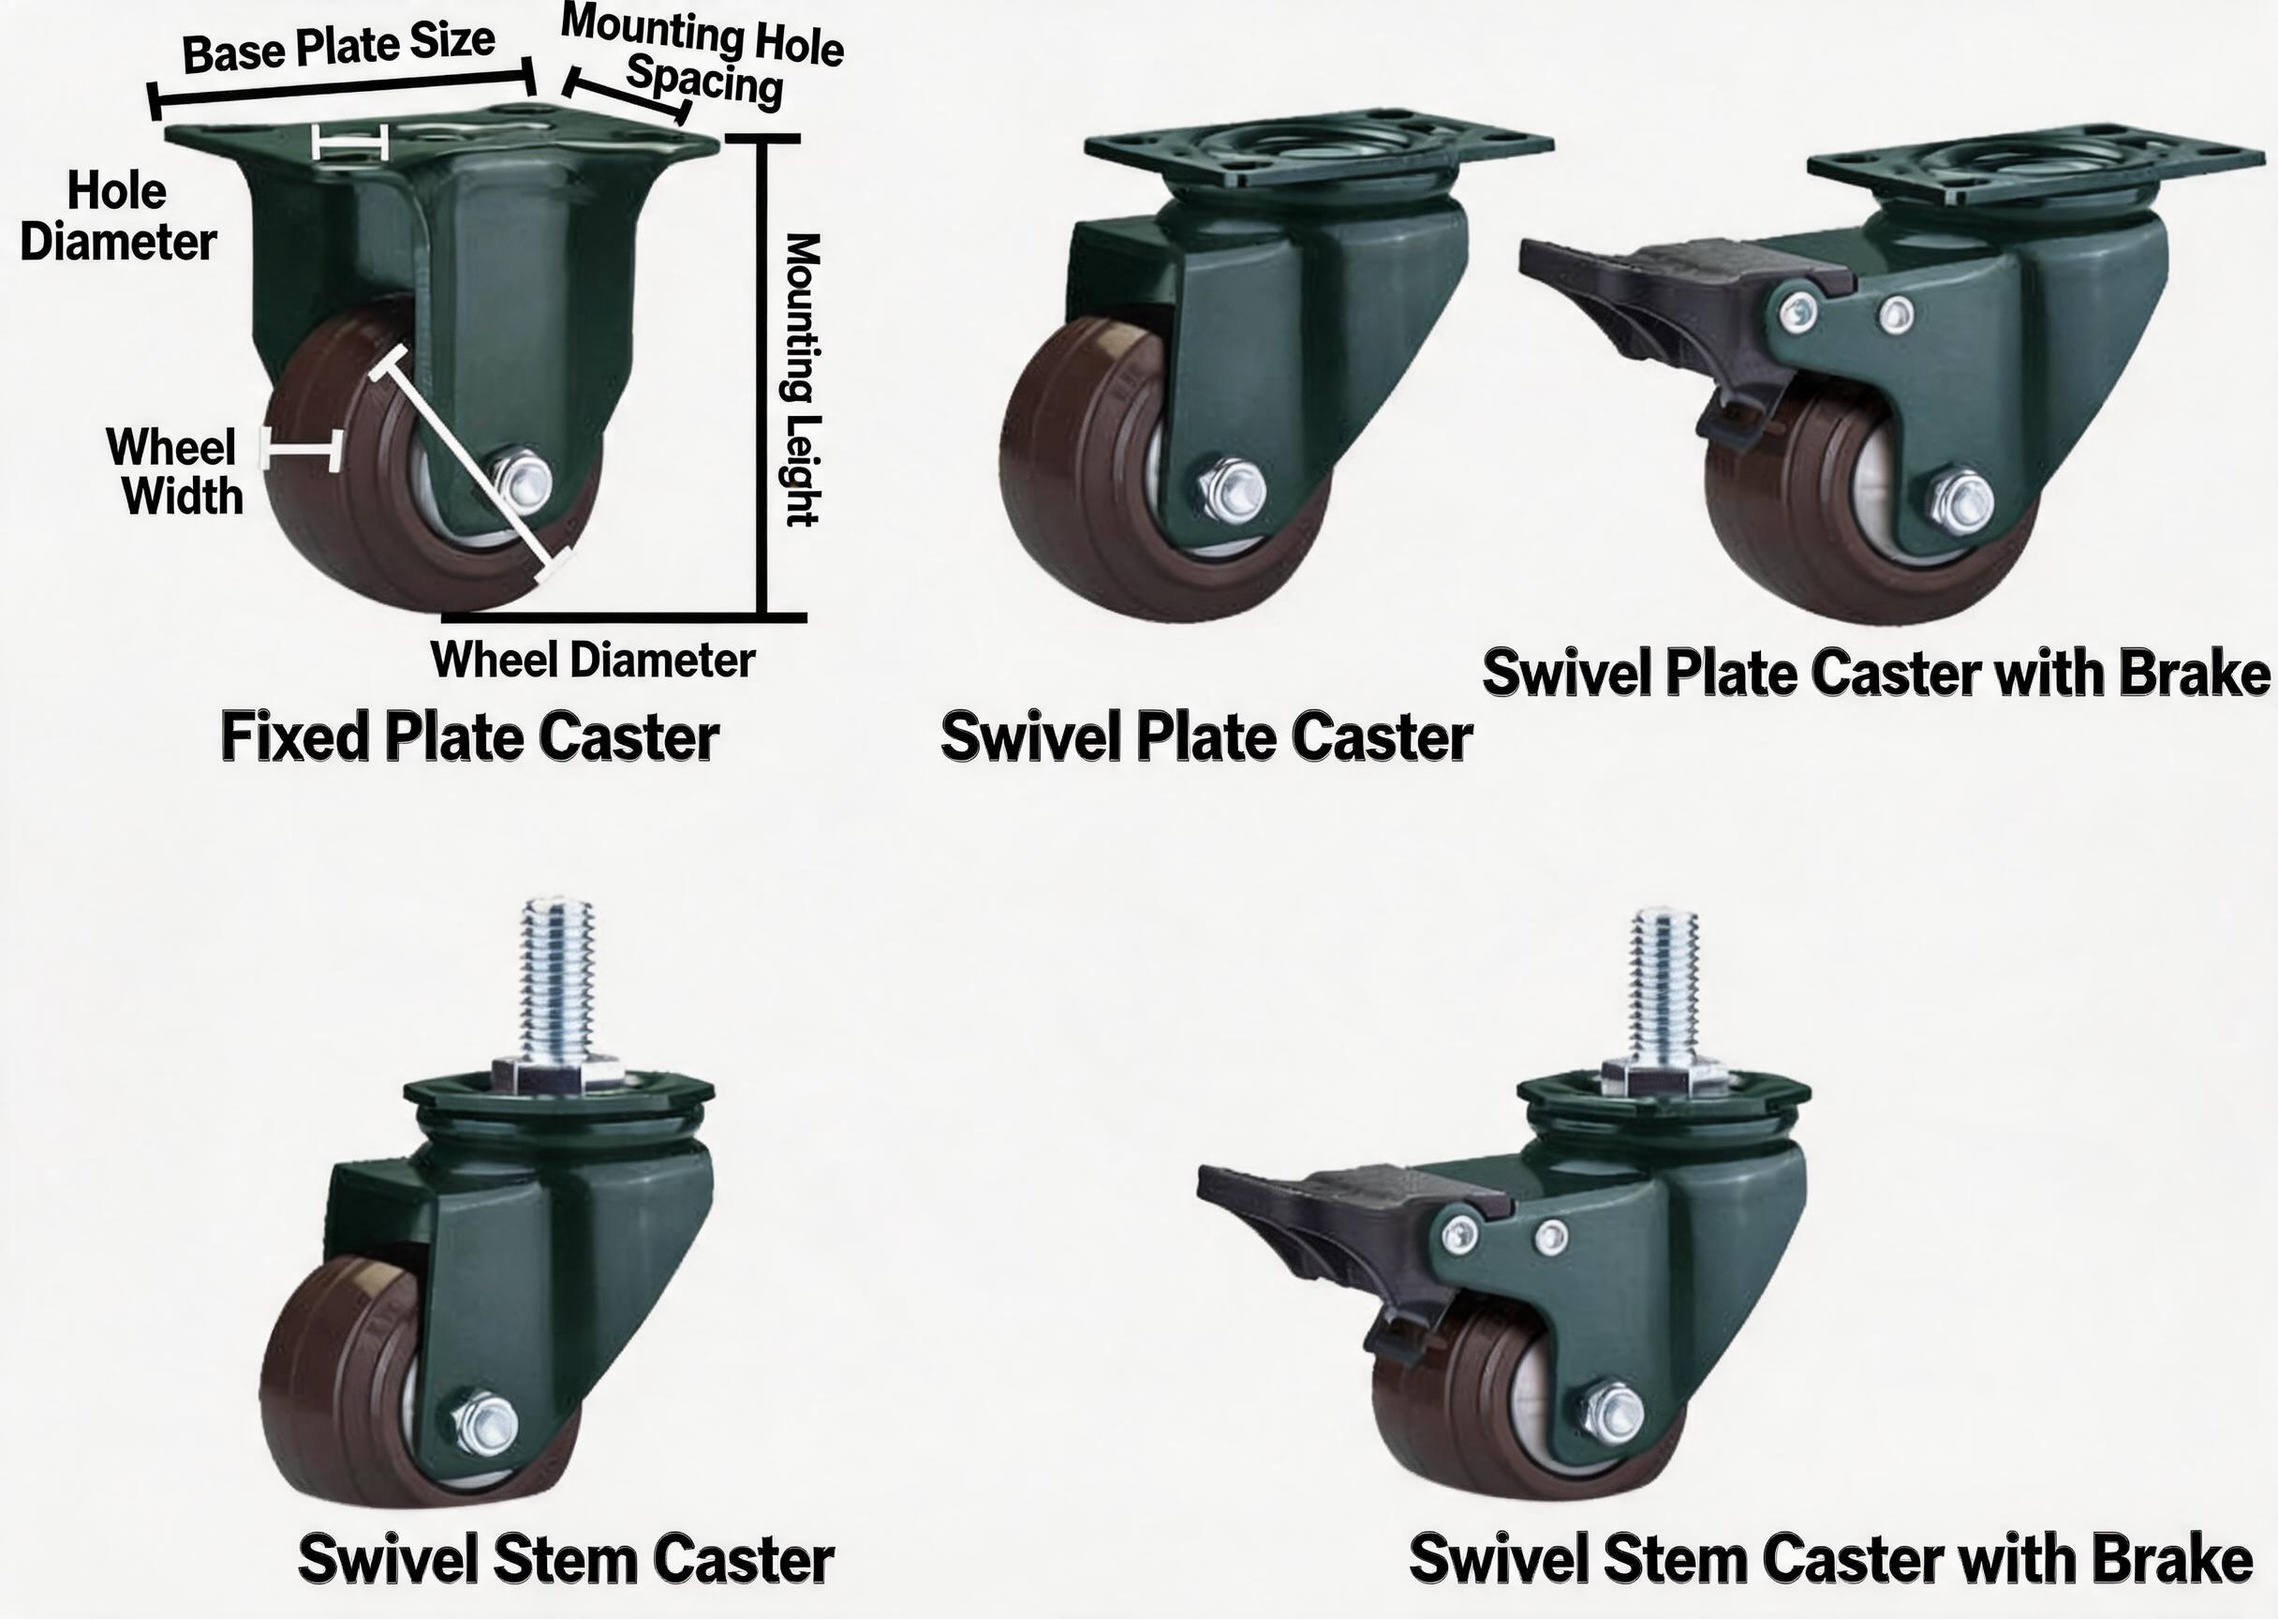
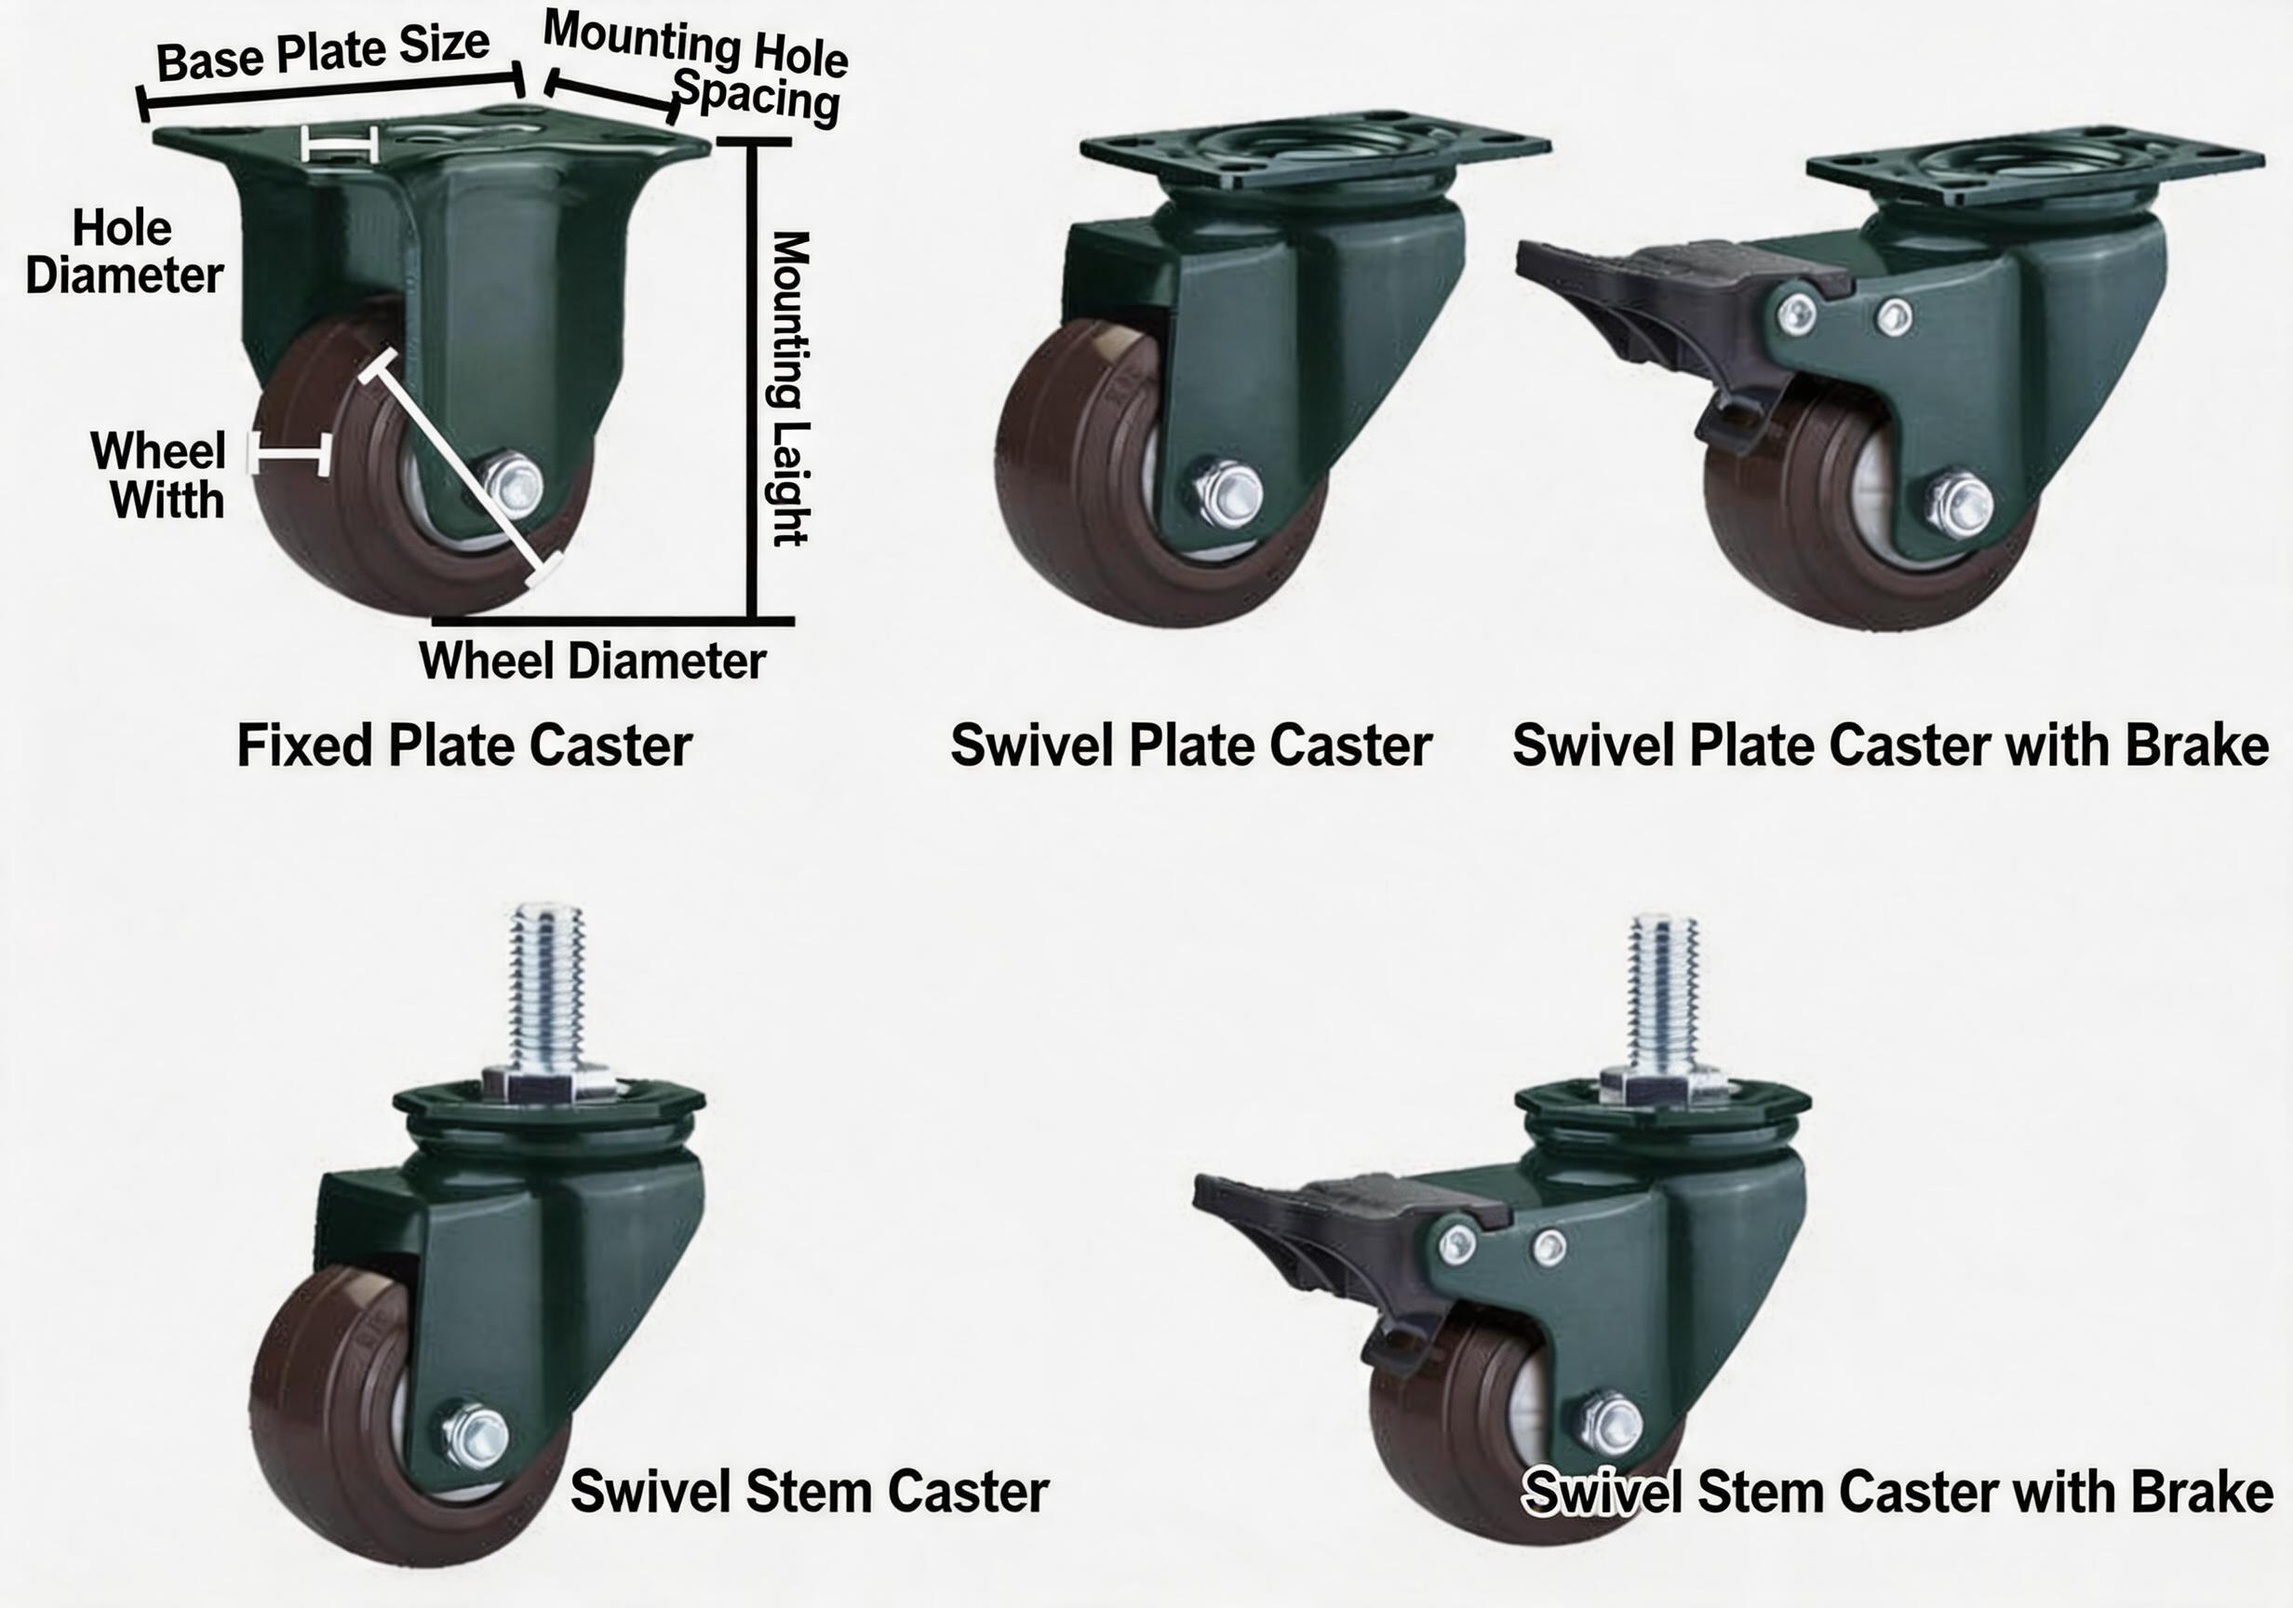
水印

diff --git a/watermark.js b/watermark.js
@@ -1,0 +1,242 @@
+(function (root,factory) {
+  if (typeof define === 'function' && define.amd) {
+    define([], factory());
+  } else if (typeof module === 'object' && module.exports) {
+    module.exports = factory();
+  } else {
+    root['watermark'] = factory();
+  }
+}(this, function () {
+  var watermark = {};
+  var forceRemove = false;
+  var globalSetting = null;
+  
+  var defaultSettings = {
+    watermark_id: 'wm_div_id',
+    watermark_prefix: 'mask_div_id',
+    watermark_txt: "测试水印",
+    watermark_x: 20,
+    watermark_y: 20,
+    watermark_rows: 0,
+    watermark_cols: 0,
+    watermark_x_space: 50,
+    watermark_y_space: 50,
+    watermark_font: '微软雅黑',
+    watermark_color: 'black',
+    watermark_fontsize: '18px',
+    watermark_alpha: 0.15,
+    watermark_width: 100,
+    watermark_height: 100,
+    watermark_angle: 15,
+    watermark_parent_width: 0,
+    watermark_parent_height: 0,
+    watermark_parent_node: null,
+    monitor: true,
+  };
+
+  var MutationObserver = window.MutationObserver || window.WebKitMutationObserver || window.MozMutationObserver;
+  var hasObserver = MutationObserver !== undefined;
+  var watermarkDom = null;
+  var recordOldValue = { width: 0, height: 0 };
+  
+  var callback = function (records) {
+    if (forceRemove) {
+      forceRemove = false;
+      return;
+    }
+    if ((globalSetting && records.length === 1) || records.length === 1 && records[0].removedNodes.length >= 1) {
+      loadMark(globalSetting);
+      return;
+    }
+    
+    var watermark_parent_element = document.getElementById(defaultSettings.watermark_parent_node);
+    if (watermark_parent_element) {
+      var newWidth = getComputedStyle(watermark_parent_element).getPropertyValue('width');
+      var newHeight = getComputedStyle(watermark_parent_element).getPropertyValue('height');
+      if (newWidth !== recordOldValue.width || newHeight !== recordOldValue.height) {
+        recordOldValue.width = newWidth;
+        recordOldValue.height = newHeight;
+        loadMark(globalSetting);
+      }
+    }
+  };
+
+  var loadMark = function(settings) {
+    if (arguments.length === 1 && typeof arguments[0] === "object") {
+      var src = arguments[0] || {};
+      for (var key in src) {
+        if (src[key] && defaultSettings[key] && src[key] === defaultSettings[key]) continue;
+        else if (src[key] || src[key] === 0) defaultSettings[key] = src[key];
+      }
+    }
+
+    var watermark_element = document.getElementById(defaultSettings.watermark_id);
+    if (watermark_element && watermark_element.parentNode) {
+      watermark_element.parentNode.removeChild(watermark_element);
+    }
+
+    var watermark_parent_element = defaultSettings.watermark_parent_node 
+      ? document.getElementById(defaultSettings.watermark_parent_node) 
+      : null;
+    var watermark_hook_element = watermark_parent_element || document.body;
+
+    var page_width = Math.max(watermark_hook_element.scrollWidth, watermark_hook_element.clientWidth);
+    var page_height = Math.max(watermark_hook_element.scrollHeight, watermark_hook_element.clientHeight);
+
+    var parentEle = watermark_hook_element;
+    var page_offsetTop = 0;
+    var page_offsetLeft = 0;
+    
+    if (defaultSettings.watermark_parent_width || defaultSettings.watermark_parent_height) {
+      if (parentEle) {
+        page_offsetTop = parentEle.offsetTop || 0;
+        page_offsetLeft = parentEle.offsetLeft || 0;
+        defaultSettings.watermark_x = defaultSettings.watermark_x + page_offsetLeft;
+        defaultSettings.watermark_y = defaultSettings.watermark_y + page_offsetTop;
+      }
+    } else {
+      if (parentEle) {
+        page_offsetTop = parentEle.offsetTop || 0;
+        page_offsetLeft = parentEle.offsetLeft || 0;
+      }
+    }
+
+    var otdiv = document.getElementById(defaultSettings.watermark_id);
+    var shadowRoot = null;
+
+    if (!otdiv) {
+      otdiv = document.createElement('div');
+      otdiv.id = defaultSettings.watermark_id;
+      otdiv.setAttribute('style', 'pointer-events: none !important; display: block !important');
+      
+      if (typeof otdiv.attachShadow === 'function') {
+        shadowRoot = otdiv.attachShadow({ mode: 'open' });
+      } else {
+        shadowRoot = otdiv;
+      }
+      
+      var nodeList = watermark_hook_element.children;
+      var index = Math.floor(Math.random() * (nodeList.length - 1));
+      if (nodeList[index]) {
+        watermark_hook_element.insertBefore(otdiv, nodeList[index]);
+      } else {
+        watermark_hook_element.appendChild(otdiv);
+      }
+    } else if (otdiv.shadowRoot) {
+      shadowRoot = otdiv.shadowRoot;
+    }
+
+    defaultSettings.watermark_cols = parseInt((page_width - defaultSettings.watermark_x) / (defaultSettings.watermark_width + defaultSettings.watermark_x_space));
+    var temp_watermark_x_space = parseInt((page_width - defaultSettings.watermark_x - defaultSettings.watermark_width * defaultSettings.watermark_cols) / (defaultSettings.watermark_cols));
+    defaultSettings.watermark_x_space = temp_watermark_x_space ? defaultSettings.watermark_x_space : temp_watermark_x_space;
+    
+    defaultSettings.watermark_rows = parseInt((page_height - defaultSettings.watermark_y) / (defaultSettings.watermark_height + defaultSettings.watermark_y_space));
+    var temp_watermark_y_space = parseInt((page_height - defaultSettings.watermark_y - defaultSettings.watermark_height * defaultSettings.watermark_rows) / (defaultSettings.watermark_rows));
+    defaultSettings.watermark_y_space = temp_watermark_y_space ? defaultSettings.watermark_y_space : temp_watermark_y_space;
+
+    var allWatermarkWidth, allWatermarkHeight;
+    if (watermark_parent_element) {
+      allWatermarkWidth = defaultSettings.watermark_x + defaultSettings.watermark_width * defaultSettings.watermark_cols + defaultSettings.watermark_x_space * (defaultSettings.watermark_cols - 1);
+      allWatermarkHeight = defaultSettings.watermark_y + defaultSettings.watermark_height * defaultSettings.watermark_rows + defaultSettings.watermark_y_space * (defaultSettings.watermark_rows - 1);
+    } else {
+      allWatermarkWidth = page_offsetLeft + defaultSettings.watermark_x + defaultSettings.watermark_width * defaultSettings.watermark_cols + defaultSettings.watermark_x_space * (defaultSettings.watermark_cols - 1);
+      allWatermarkHeight = page_offsetTop + defaultSettings.watermark_y + defaultSettings.watermark_height * defaultSettings.watermark_rows + defaultSettings.watermark_y_space * (defaultSettings.watermark_rows - 1);
+    }
+
+    var x, y;
+    for (var i = 0; i < defaultSettings.watermark_rows; i++) {
+      if (watermark_parent_element) {
+        y = page_offsetTop + defaultSettings.watermark_y + (defaultSettings.watermark_y_space + defaultSettings.watermark_height) * i;
+      } else {
+        y = defaultSettings.watermark_y + (page_height - allWatermarkHeight) / 2 + (defaultSettings.watermark_y_space + defaultSettings.watermark_height) * i;
+      }
+      
+      for (var j = 0; j < defaultSettings.watermark_cols; j++) {
+        if (watermark_parent_element) {
+          x = page_offsetLeft + defaultSettings.watermark_x + (page_width - allWatermarkWidth) / 2 + (defaultSettings.watermark_width + defaultSettings.watermark_x_space) * j;
+        } else {
+          x = defaultSettings.watermark_x + (page_width - allWatermarkWidth) / 2 + (defaultSettings.watermark_width + defaultSettings.watermark_x_space) * j;
+        }
+        
+        var mask_div = document.createElement('div');
+        var oText = document.createTextNode(defaultSettings.watermark_txt);
+        mask_div.appendChild(oText);
+        mask_div.id = defaultSettings.watermark_prefix + i + j;
+        mask_div.style.webkitTransform = "rotate(-" + defaultSettings.watermark_angle + "deg)";
+        mask_div.style.MozTransform = "rotate(-" + defaultSettings.watermark_angle + "deg)";
+        mask_div.style.msTransform = "rotate(-" + defaultSettings.watermark_angle + "deg)";
+        mask_div.style.OTransform = "rotate(-" + defaultSettings.watermark_angle + "deg)";
+        mask_div.style.transform = "rotate(-" + defaultSettings.watermark_angle + "deg)";
+        mask_div.style.visibility = "";
+        mask_div.style.position = "absolute";
+        mask_div.style.left = x + 'px';
+        mask_div.style.top = y + 'px';
+        mask_div.style.overflow = "hidden";
+        mask_div.style.zIndex = "9999999";
+        mask_div.style.opacity = defaultSettings.watermark_alpha;
+        mask_div.style.fontSize = defaultSettings.watermark_fontsize;
+        mask_div.style.fontFamily = defaultSettings.watermark_font;
+        mask_div.style.color = defaultSettings.watermark_color;
+        mask_div.style.textAlign = "center";
+        mask_div.style.width = defaultSettings.watermark_width + 'px';
+        mask_div.style.height = defaultSettings.watermark_height + 'px';
+        mask_div.style.display = "block";
+        mask_div.style['-ms-user-select'] = "none";
+        shadowRoot.appendChild(mask_div);
+      }
+    }
+
+    if (hasObserver && defaultSettings.monitor) {
+      if (watermarkDom) {
+        watermarkDom.disconnect();
+      }
+      
+      watermarkDom = new MutationObserver(callback);
+      var option = {
+        'childList': true,
+        'attributes': true,
+        'subtree': true,
+        'attributeFilter': ['style'],
+        'attributeOldValue': true
+      };
+      
+      watermarkDom.observe(watermark_hook_element, option);
+      if (otdiv.shadowRoot) {
+        watermarkDom.observe(otdiv.shadowRoot, option);
+      }
+    }
+  };
+
+  var removeMark = function() {
+    var watermark_element = document.getElementById(defaultSettings.watermark_id);
+    if (watermark_element && watermark_element.parentNode) {
+      watermark_element.parentNode.removeChild(watermark_element);
+    }
+    if (watermarkDom) {
+      watermarkDom.disconnect();
+    }
+  };
+
+  watermark.init = function(settings) {
+    globalSetting = settings;
+    loadMark(settings);
+    window.addEventListener('load', function () {
+      loadMark(settings);
+    });
+    window.addEventListener('resize', function () {
+      loadMark(settings);
+    });
+  };
+
+  watermark.load = function(settings) {
+    globalSetting = settings;
+    loadMark(settings);
+  };
+
+  watermark.remove = function() {
+    forceRemove = true;
+    removeMark();
+  };
+
+  return watermark;
+}));

diff --git a/index.html b/index.html
@@ -210,31 +210,6 @@
             font-size: 12px;
         }
     </style>
-
-    <!-- Watermark DOM Library -->
-    <script src="https://unpkg.com/watermark-dom@2.4.0/dist/watermark.js"></script>
-    <script>
-        window.onload = function () {
-            // 初始化水印
-            watermark.init({
-                watermark_txt: 'Rolcaster',
-                watermark_x: 50,
-                watermark_y: 50,
-                watermark_rows: 0,
-                watermark_cols: 0,
-                watermark_x_space: 150,
-                watermark_y_space: 150,
-                watermark_color: 'rgba(244, 160, 23, 0.15)',
-                watermark_fontsize: '24px',
-                watermark_alpha: 0.15,
-                watermark_angle: -30,
-                watermark_width: 150,
-                watermark_height: 100,
-                watermark_parent_selector: '.page',
-                watermark_font: 'Microsoft YaHei'
-            });
-        };
-    </script>
 </head>
 
 <body>
@@ -11163,3 +11138,11 @@
 </body>
 
 </html>
+<script type="text/javascript" src="./watermark.js"></script>
+<script>
+    // 初始化水印
+    watermark.load({
+        watermark_txt: 'Rolcaster',
+        watermark_color: 'rgba(244, 160, 23, 0.7)',
+    });
+</script>
